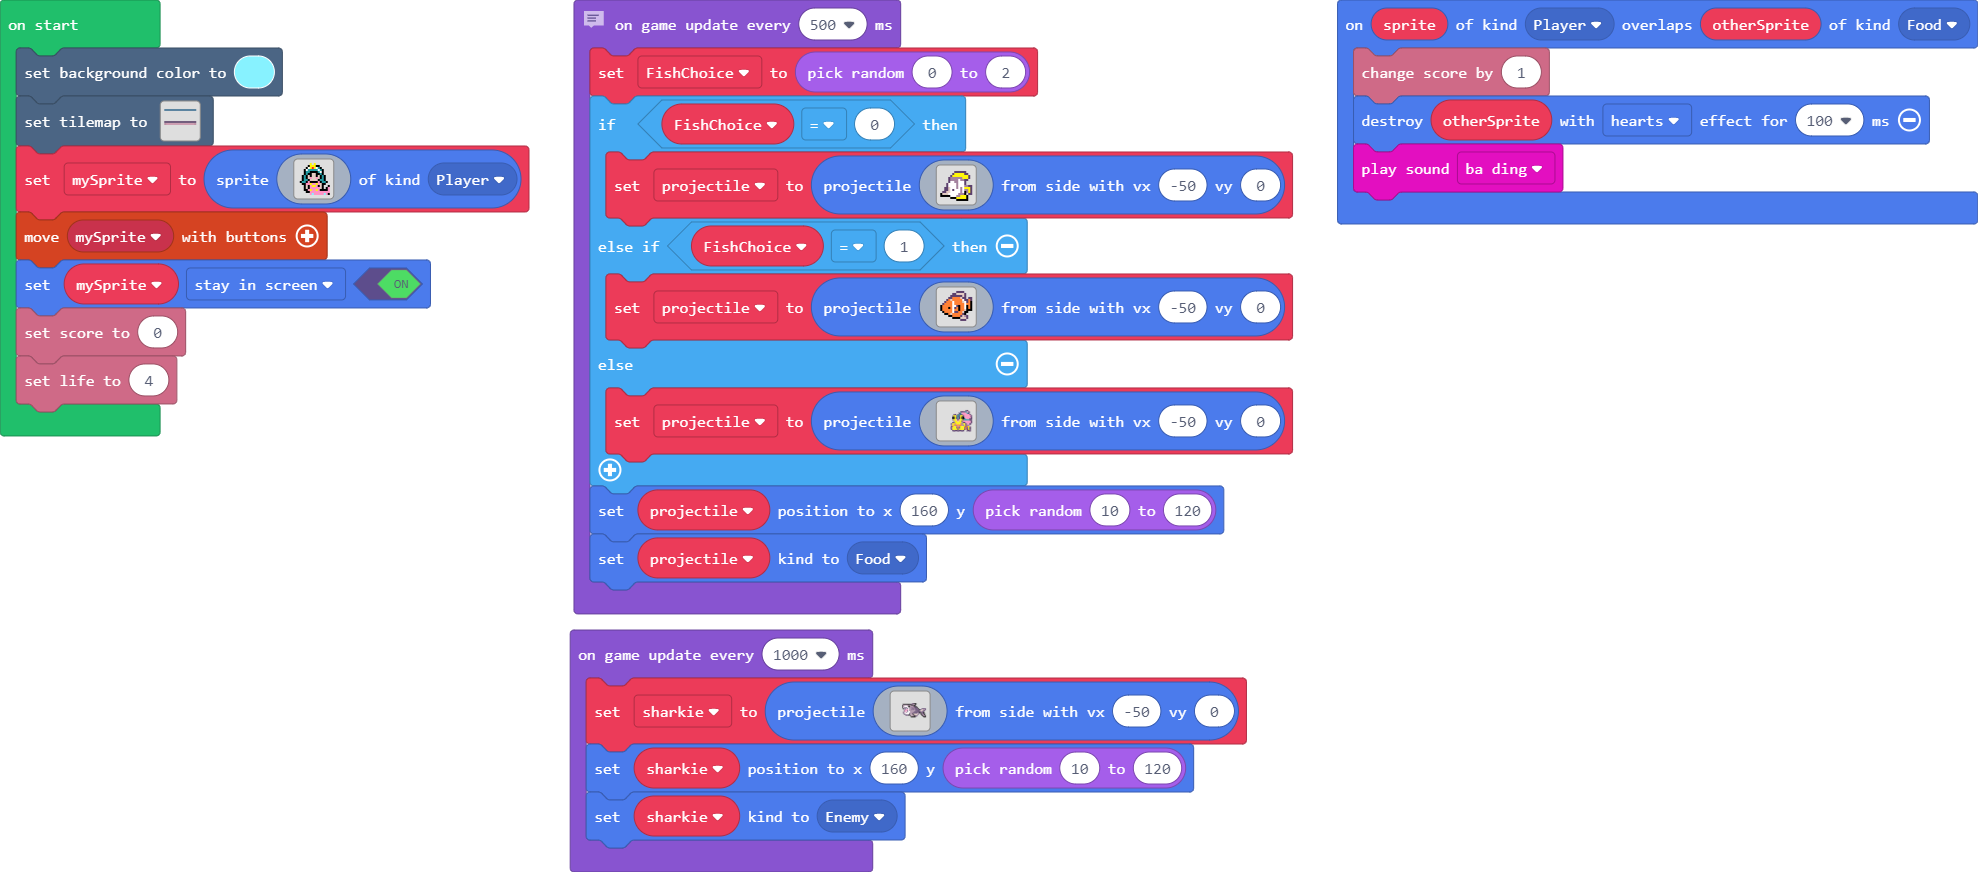
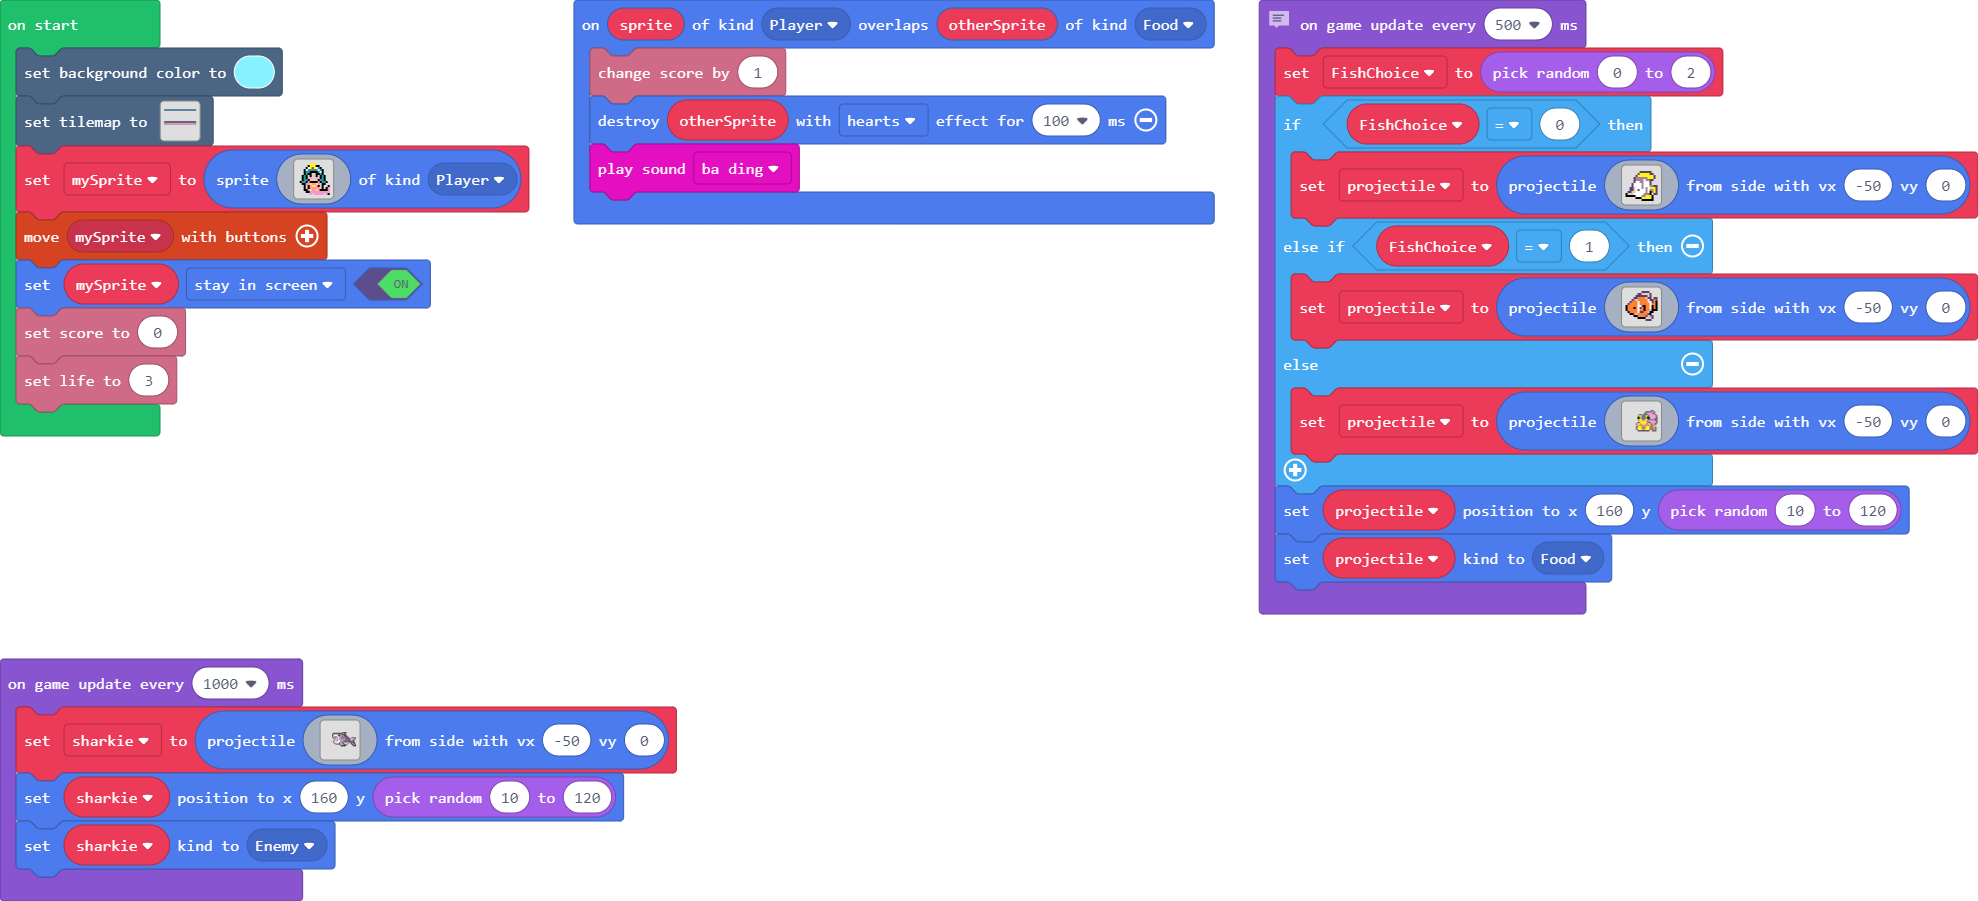
Update main.blocks, main.ts

diff --git a/main.ts b/main.ts
@@ -87,9 +87,8 @@ let mySprite = sprites.create(img`
 controller.moveSprite(mySprite)
 mySprite.setFlag(SpriteFlag.StayInScreen, true)
 info.setScore(0)
-info.setLife(4)
-// every half a second spawn one of three types of
-// fish
+info.setLife(3)
+// every half a second spawn a fish
 game.onUpdateInterval(500, function () {
     FishChoice = Math.randomRange(0, 2)
     if (FishChoice == 0) {
